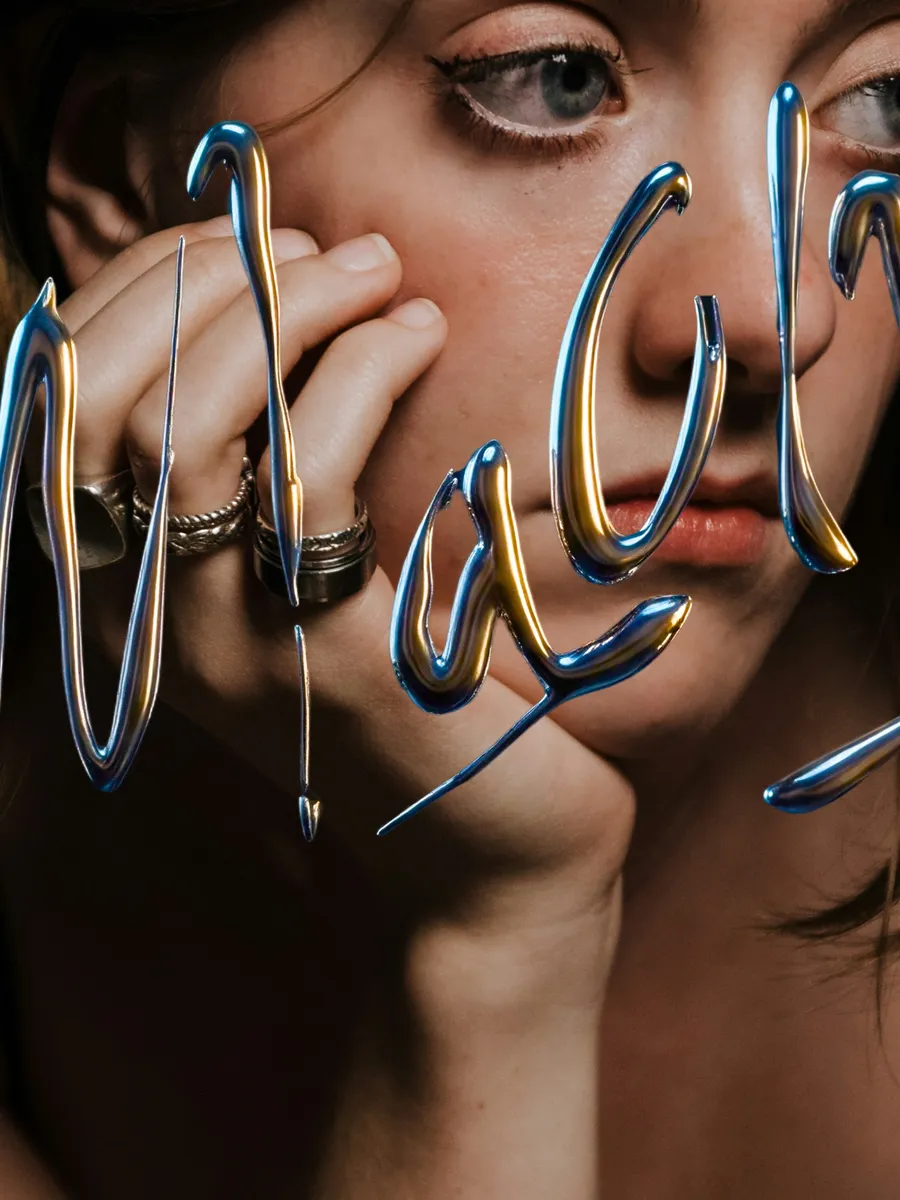
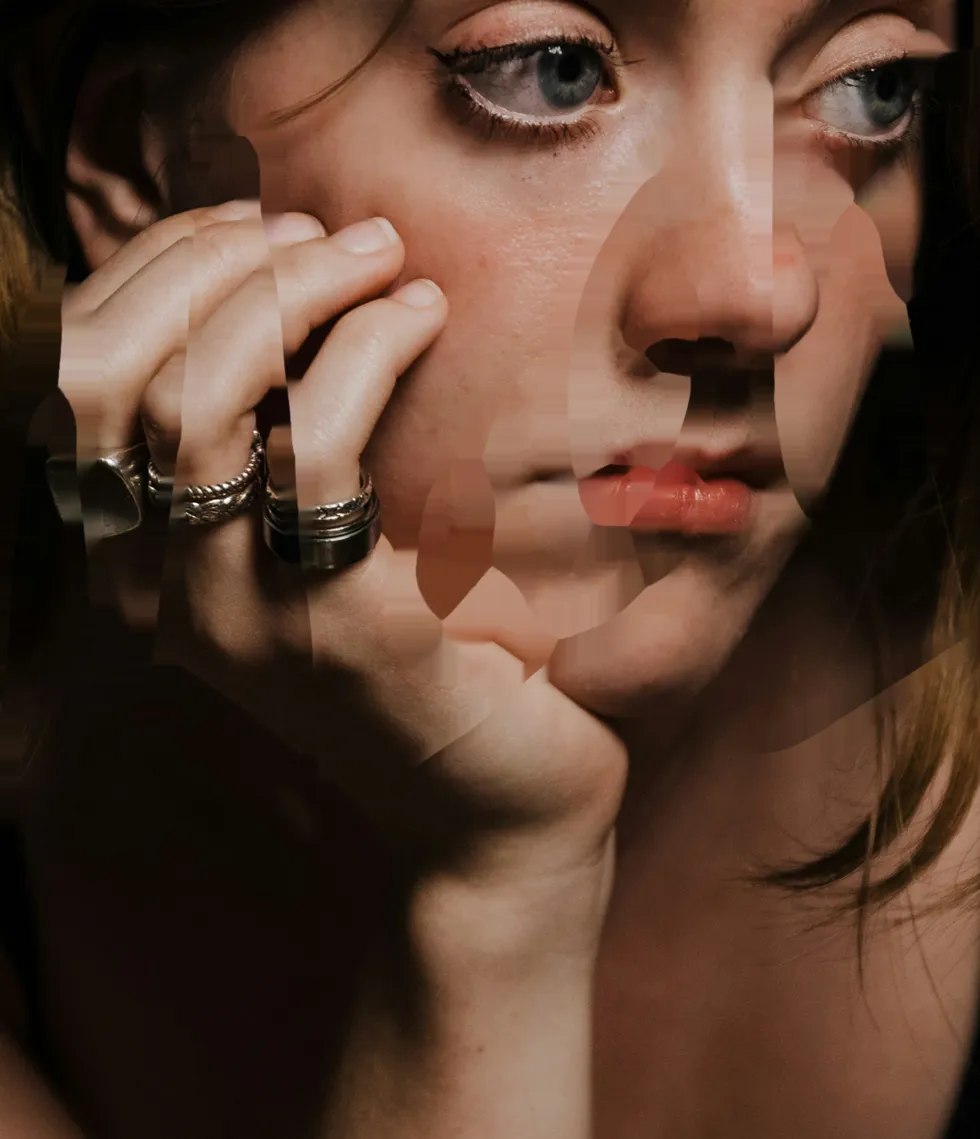
Lettering como capa propia, hero sin recorte y carrusel mas rapido
El lettering cromado resulto ser el MISMO asset compuesto sobre las cuatro fotos:
donde las cuatro coinciden pixel a pixel esta el lettering, y esa coincidencia da
una mascara exacta. Con ella se extrajo con alfa suave y se borro de los fondos
por inpainting, asi que ahora es una capa independiente.

Va con la misma geometria y el mismo object-fit que la foto, por eso cae justo
sobre el hueco del que salio; al 90% la palabra se lee en vez de solo barrer los
bordes. Se mueve en sentido contrario al fondo con el puntero y sube mas rapido
con el scroll: esa diferencia es la profundidad.

Las imagenes ya no salen cortadas: el hero se limita por relacion de aspecto
(100vw/1.62) en vez de llenar la altura, y se recortaron los scales acumulados.
Hold 4s y crossfade 0.95s.

diff --git a/css/styles.css b/css/styles.css
@@ -98,13 +98,13 @@ ul,ol{list-style:none}
 .pill-link.is-active{background:var(--naranja);border-color:var(--naranja);color:var(--blanco)}
 
 /* ---------- HERO ---------- */
-.hero{position:relative;height:100svh;min-height:560px;background:var(--tinta);overflow:hidden}
+.hero{position:relative;height:min(100svh,calc(100vw / 1.62));min-height:540px;background:var(--tinta);overflow:hidden}
 .hero-slides{position:absolute;inset:0}
 /* Crossfade: the outgoing frame keeps drifting while the incoming one settles, so
    the change never reads as a cut. will-change is set only on the two slides in
    play — pinning all four costs real memory on phones and causes the stutter. */
 .hero-slide{position:absolute;inset:0;opacity:0;pointer-events:none;
-  transition:opacity 1.1s cubic-bezier(.33,0,.15,1)}
+  transition:opacity .95s cubic-bezier(.33,0,.15,1)}
 .hero-slide.is-active,.hero-slide.is-leaving{will-change:opacity}
 .hero-slide.is-active{opacity:1;z-index:2}
 .hero-slide.is-leaving{z-index:1}
@@ -112,13 +112,27 @@ ul,ol{list-style:none}
    would otherwise overwrite each other */
 /* no CSS transition here on purpose: the JS lerp already smooths the drift, and
    easing it twice makes the parallax feel laggy rather than fluid */
+/* scales kept to the minimum that covers the drift — every extra percent here is
+   image the viewer loses off the edges */
 .hero-slide picture{display:block;width:100%;height:100%;overflow:hidden;
-  transform:translate3d(var(--px,0px),var(--py,0px),0) scale(1.035)}
-.hero-slide img{width:100%;height:100%;object-fit:cover;object-position:center 42%;
-  transform:scale(1.05)}
-.hero-slide.is-active img{animation:kenburns 7.4s cubic-bezier(.25,.6,.35,1) forwards}
-@keyframes kenburns{from{transform:scale(1.065) translate3d(.5%,0,0)}to{transform:scale(1.0) translate3d(0,0,0)}}
-.hero::after{content:'';position:absolute;inset:auto 0 0 0;height:24%;z-index:3;
+  transform:translate3d(var(--px,0px),var(--py,0px),0) scale(1.022)}
+.hero-slide img{width:100%;height:100%;object-fit:cover;object-position:center 45%}
+.hero-slide.is-active img{animation:kenburns 6.6s cubic-bezier(.25,.6,.35,1) forwards}
+@keyframes kenburns{from{transform:scale(1.042) translate3d(.35%,0,0)}to{transform:scale(1.0) translate3d(0,0,0)}}
+/* The chrome lettering was lifted off the photos (it was the same asset composited
+   on all four), so it lives on its own layer and drifts further than the frame
+   behind it — that difference is what reads as depth. */
+.hero-letter{position:absolute;inset:0;z-index:4;pointer-events:none;overflow:hidden}
+/* pulled in to .90 so the word reads instead of just sweeping past the edges —
+   the inpainted hole it uncovers falls on soft skin/sky and stays invisible */
+.hero-letter picture{display:block;width:100%;height:100%;
+  transform:translate3d(var(--lx,0px),var(--ly,0px),0) scale(.90)}
+/* identical geometry + identical object-fit as the photo: that is what makes the
+   layer land exactly on the hole it was lifted from */
+.hero-letter img{width:100%;height:100%;object-fit:cover;object-position:center 45%;
+  filter:drop-shadow(0 8px 26px rgba(0,0,0,.30))}
+
+.hero::after{content:'';position:absolute;inset:auto 0 0 0;height:24%;z-index:5;
   background:linear-gradient(to top,rgba(16,3,3,.5),transparent);pointer-events:none}
 
 .hero-dots{position:absolute;left:50%;bottom:34px;transform:translateX(-50%);display:flex;gap:10px;z-index:6}
@@ -353,7 +367,8 @@ html.js.anim-ready [data-reveal],html.js.anim-ready [data-reveal-group]>*,html.j
   .serv,.serv:last-child{grid-column:span 1;aspect-ratio:1034/1213}
   /* full-bleed cover at 375px would blow the image up ~4x; a shorter hero + the
      0.63 mobile crop lands within a few px of the artwork's real proportions */
-  .hero{height:66svh;min-height:440px}
+  .hero{height:70svh;min-height:460px}
+  .hero-letter picture{transform:translate3d(var(--lx,0px),var(--ly,0px),0) scale(1.06)}
   .hero-slide img{object-position:center 50%;transform:none}
   .hero-slide.is-active img{animation:none}
   .hero-dots{bottom:calc(84px + env(safe-area-inset-bottom))}
@@ -370,6 +385,7 @@ html.js.anim-ready [data-reveal],html.js.anim-ready [data-reveal-group]>*,html.j
   /* keep the dissolve and the progress bar — drop only the movement */
   .hero-slide.is-active img{animation:none;transform:none}
   .hero-slide picture{transform:none}
+  .hero-letter picture{transform:none}
   .hero-slide{transition:opacity .6s ease}
   .loader{animation-delay:.4s}
   .loader-plus{animation:none}

diff --git a/js/main.js b/js/main.js
@@ -127,8 +127,8 @@
   const slides = [...document.querySelectorAll('.hero-slide')];
   const dots = [...document.querySelectorAll('.hero-dots .dot')];
   const fills = dots.map(d => d.querySelector('.dot-fill'));
-  const FADE = 1100;          // must match the CSS crossfade
-  const HOLD = 5200, HOLD_MANUAL = 6400;
+  const FADE = 950;           // must match the CSS crossfade
+  const HOLD = 4000, HOLD_MANUAL = 5200;
   let cur = 0, holdMs = HOLD, timerId = null, startedAt = 0, remaining = HOLD, isPaused = false;
 
   // decode the next image ahead of time so the crossfade never waits on network
@@ -233,12 +233,16 @@
   // enough to feel alive, small enough that it never reads as a moving image.
   if (!reduced) {
     let tx = 0, ty = 0, cx = 0, cy = 0, praf = null;
-    const MAX_X = 18, MAX_Y = 12;
+    // the photo drifts a little, the lettering noticeably more: same cursor, two
+    // depths. Opposed signs make the gap read stronger without moving either far.
+    const BG_X = 14, BG_Y = 9, LT_X = -34, LT_Y = -22;
     function ease() {
-      cx += (tx - cx) * 0.075;
-      cy += (ty - cy) * 0.075;
-      hero.style.setProperty('--px', (cx * MAX_X).toFixed(2) + 'px');
-      hero.style.setProperty('--py', (cy * MAX_Y).toFixed(2) + 'px');
+      cx += (tx - cx) * 0.08;
+      cy += (ty - cy) * 0.08;
+      hero.style.setProperty('--px', (cx * BG_X).toFixed(2) + 'px');
+      hero.style.setProperty('--py', (cy * BG_Y).toFixed(2) + 'px');
+      hero.style.setProperty('--lx', (cx * LT_X).toFixed(2) + 'px');
+      hero.style.setProperty('--ly', (cy * LT_Y).toFixed(2) + 'px');
       praf = (Math.abs(tx - cx) > 0.0015 || Math.abs(ty - cy) > 0.0015)
         ? requestAnimationFrame(ease) : null;
     }
@@ -362,8 +366,14 @@
     // scroll parallax — this is what keeps the hero alive on touch, where the
     // pointer drift never happens
     gsap.to('.hero-slides', {
-      yPercent: 14, ease: 'none',
+      yPercent: 13, ease: 'none',
       scrollTrigger: { trigger: '.hero', start: 'top top', end: 'bottom top', scrub: 0.4 }
+    });
+    // lettering climbs faster than the photo — the depth cue that works on touch,
+    // where there is no cursor to drive the drift
+    gsap.to('.hero-letter', {
+      yPercent: -22, scale: 1.06, ease: 'none',
+      scrollTrigger: { trigger: '.hero', start: 'top top', end: 'bottom top', scrub: 0.25 }
     });
     gsap.to('.hero-dots', {
       opacity: 0, y: 20, ease: 'none',

diff --git a/index.html b/index.html
@@ -17,7 +17,7 @@
 <link rel="preload" href="fonts/NTDapperTrial-Regular.woff2" as="font" type="font/woff2" crossorigin>
 <link rel="preload" href="fonts/Jabin-BoldSwash2.woff2" as="font" type="font/woff2" crossorigin>
 <link rel="preload" href="fonts/OONeurealTrial-SemiMono.woff2" as="font" type="font/woff2" crossorigin>
-<link rel="stylesheet" href="css/styles.css?v=6">
+<link rel="stylesheet" href="css/styles.css?v=10">
 </head>
 <body>
 
@@ -91,6 +91,12 @@
       <source media="(max-width:720px)" srcset="img/hero_d_m.webp">
       <img src="img/hero_d.webp" alt="Figura de cuerpo entero bajo un cielo nublado con el lettering líquido de ExMachina" loading="lazy">
     </picture></figure>
+  </div>
+  <div class="hero-letter" aria-hidden="true">
+    <picture>
+      <source media="(max-width:720px)" srcset="img/lettering_m.webp">
+      <img src="img/lettering.webp" alt="" fetchpriority="high">
+    </picture>
   </div>
   <div class="hero-dots" role="tablist" aria-label="Imágenes del carrusel">
     <button class="dot is-active" role="tab" aria-selected="true" aria-label="Imagen 1 de 4"><span class="dot-fill"></span></button>
@@ -364,6 +370,6 @@
 <script src="vendor/gsap.min.js" defer></script>
 <script src="vendor/ScrollTrigger.min.js" defer></script>
 <script src="vendor/lenis.min.js" defer></script>
-<script src="js/main.js?v=6" defer></script>
+<script src="js/main.js?v=10" defer></script>
 </body>
 </html>
